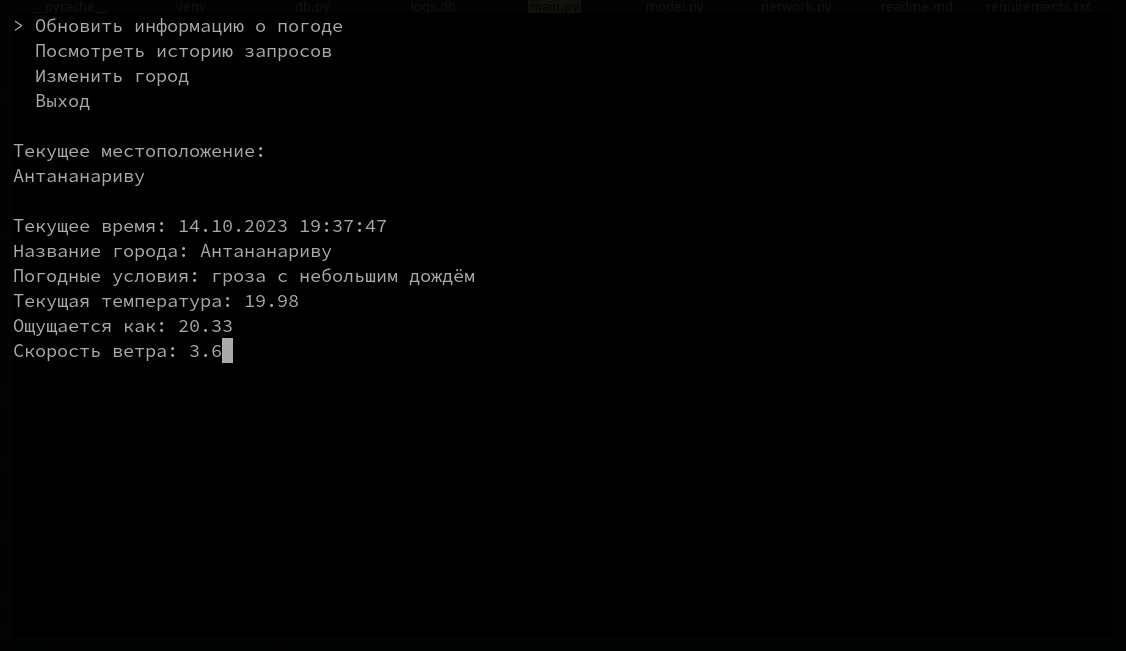
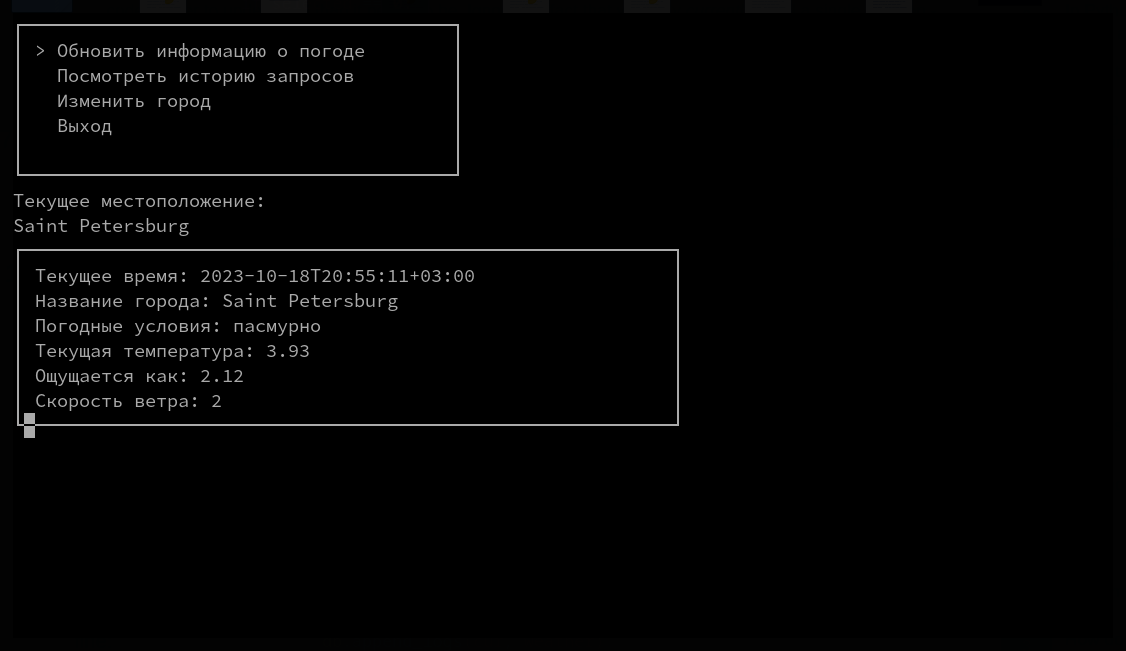
Исправления по замечаниям

Changed region(s): [[0.0, 0.0307, 0.4352, 0.6759]]

diff --git a/main.py b/main.py
@@ -1,14 +1,18 @@
 import curses
+from curses.textpad import rectangle
 import geocoder
 from os import getenv
 from dotenv import load_dotenv
 
 import network
 from model import Weather
-from db import read_logs, close_db_connection
+import db
 
 menu = ["Обновить информацию о погоде",
-        "Посмотреть историю запросов", "Изменить город", "Выход"]
+        "Посмотреть историю запросов",
+        "Изменить город",
+        "Выход"
+        ]
 
 
 def get_my_city():
@@ -19,46 +23,69 @@ def get_my_city():
 def draw_weather(stdscr, weather: Weather, start_line: int):
     if weather is not None:
         try:
-            stdscr.addstr(start_line, 0, "Текущее время: " +
-                          weather.time.strftime("%d.%m.%Y %H:%M:%S"))
-            stdscr.addstr(start_line + 1, 0,
+            stdscr.addstr(start_line + 1, 2, "Текущее время: " +
+                          weather.time.isoformat())
+            stdscr.addstr(start_line + 2, 2,
                           "Название города: " + weather.city)
-            stdscr.addstr(start_line + 2, 0, "Погодные условия: " +
+            stdscr.addstr(start_line + 3, 2, "Погодные условия: " +
                           weather.description)
-            stdscr.addstr(start_line + 3, 0,
+            stdscr.addstr(start_line + 4, 2,
                           "Текущая температура: " + str(weather.temperature))
-            stdscr.addstr(start_line + 4, 0, "Ощущается как: " +
+            stdscr.addstr(start_line + 5, 2, "Ощущается как: " +
                           str(weather.feels_like))
-            stdscr.addstr(start_line + 5, 0,
+            stdscr.addstr(start_line + 6, 2,
                           "Скорость ветра: " + str(weather.wind))
+            rectangle(stdscr, start_line, 0, start_line + 7, 60)
         except curses.error:
             pass
 
 
 def draw_city(stdscr, city):
     try:
-        stdscr.addstr(5, 0, "Текущее местоположение: ")
-        stdscr.addstr(6, 0, city)
+        stdscr.addstr(7, 0, "Текущее местоположение: ")
+        stdscr.addstr(8, 0, city)
     except curses.error:
         pass
 
 
 def draw_status_bar(stdscr, position: int, size: int):
     try:
-        stdscr.addstr(7, 0, str(position) + "/" + str(size))
+        stdscr.addstr(9, 0, str(position + 1) + "/" + str(size))
     except curses.error:
         pass
 
 
-def draw_input(stdscr, line):
+def draw_input(stdscr, line, query):
+    try:
+        stdscr.addstr(line, 0, query)
+    except curses.error:
+        pass
     curses.echo()
-    return str(stdscr.getstr(line, 0, 80), 'UTF-8')
+    return str(stdscr.getstr(line, len(query), 80), 'UTF-8')
 
 
-drawers = {
-    0: draw_weather,
-    1: draw_weather,
-}
+def draw_error(stdscr, error: str):
+    try:
+        rectangle(stdscr, 2, 2, 6 , 40)
+        stdscr.addstr(4, 9, error)
+    except curses.error:
+        pass
+
+
+def draw_menu(stdscr, selected):
+    line_num = 1
+    try:
+        for line in menu:
+                curses.setsyx(line_num, 0)
+                stdscr.clrtoeol()
+                if line == menu[selected]:
+                    stdscr.addstr(line_num, 2, "> " + line)
+                else:
+                    stdscr.addstr(line_num, 2, "  " + line)
+                line_num += 1
+        rectangle(stdscr, 0, 0, 6, 40)
+    except curses.error:
+        pass
 
 
 def fetch_weather_data(city) -> Weather:
@@ -69,77 +96,101 @@ def fetch_weather_data(city) -> Weather:
         return None
 
 
-def load_logs():
-    pass
-
-
-def draw_menu(stdscr, selected):
-    line_num = 0
-    for line in menu:
-        try:
-            curses.setsyx(line_num, 0)
-            stdscr.clrtoeol()
-            if line == menu[selected]:
-                stdscr.addstr(line_num, 0, "> " + line)
-            else:
-                stdscr.addstr(line_num, 0, "  " + line)
-            line_num += 1
-        except curses.error:
-            pass
-
 
 def main(stdscr):
     stdscr.clear()
     stdscr.keypad(True)
+
     selected = 0
     activated = None
-
     selected_log = 0
 
     city = get_my_city()
     weather = None
-    logs = [None] * 10
+    logs = []
+    logs_to_read = None
+    error = None
 
-    while True:
-        stdscr.clear()
-        drawer_params = {0: (weather, 8), 1: (logs[selected_log], 9)}
+    def draw():
+        if error is not None:
+            draw_error(stdscr, error)
+            return
+        
         draw_menu(stdscr, selected)
         draw_city(stdscr, city)
-        if activated in drawers:
-            drawers[activated](stdscr, *drawer_params[activated])
-        if (activated == 1):
-            draw_status_bar(stdscr, selected_log + 1, len(logs))
 
-        key = stdscr.getch()
-        if key == curses.KEY_DOWN and selected < len(menu) - 1:
-            selected += 1
+        if activated == 0 and weather is not None:
+            draw_weather(stdscr, weather, 9)
+        
+        if activated == 1 and logs_to_read is not None and logs:
+            draw_status_bar(stdscr, selected_log, len(logs))
+            draw_weather(stdscr, logs[selected_log], 10)
+    
+    with db.create_connection() as connection:
+        cur = connection.cursor()
+        db.create_database(cur)
 
-        elif key == curses.KEY_UP and selected > 0:
-            selected -= 1
+        while True:
+            stdscr.clear()
+            draw()
+        
 
-        elif (key == curses.KEY_RIGHT and selected == 1 and
-              selected_log < len(logs)-1):
-            selected_log += 1
-        elif key == curses.KEY_LEFT and selected == 1 and selected_log > 0:
-            selected_log -= 1
+            key = stdscr.get_wch()
+            if error is not None:
+                error = None
+                continue
 
-        elif key == ord(" "):
-            if selected == 0:
-                weather = fetch_weather_data(city)
-            elif selected == 1:
-                logs = read_logs(limit=10)
-            elif selected == 2:
-                input_line = 7
-                if activated == 1:
-                    input_line = 8
-                city = draw_input(stdscr, input_line)
-                curses.setsyx(6, 0)
-                stdscr.clrtoeol()
-            elif selected == 3:
-                break
-            activated = selected
+            if key == curses.KEY_DOWN and selected < len(menu) - 1:
+                selected += 1
+
+            elif key == curses.KEY_UP and selected > 0:
+                selected -= 1
+
+            elif (key == curses.KEY_RIGHT and selected == 1 and
+                selected_log < len(logs)-1):
+                selected_log += 1
+            elif key == curses.KEY_LEFT and selected == 1 and selected_log > 0:
+                selected_log -= 1
+
+            elif key == "\n":
+                if selected == 0:
+                    weather = fetch_weather_data(city)
+                    activated = selected
+                    db.append_logs(cur, weather)
+                    connection.commit()
+
+                elif selected == 1:
+                    logs_to_read = None
+                    weather = None
+                    stdscr.clear()
+                    draw()
+                    try:
+                        logs_to_read = draw_input(stdscr, 9, "Введите количество записей: ")
+                        logs = db.read_logs(cur, limit=logs_to_read)
+                        selected_log = 0
+                        activated = selected
+                    except:
+                        error = "Повторите попытку"
+                    
+                        
+                elif selected == 2:
+                    logs_to_read = None
+                    weather = None
+                    stdscr.clear()
+                    draw()
+                    try:
+                        city = draw_input(stdscr, 9, "Введите город: ")
+                        weather = fetch_weather_data(city)
+                        db.append_logs(cur, weather)
+                        connection.commit()
+                        activated = 0
+                    except:
+                        error = "Повторите попытку"
+    
+                elif selected == 3:
+                    break
         stdscr.refresh()
-    close_db_connection()
+
 
 
 if __name__ == "__main__":

diff --git a/db.py b/db.py
@@ -1,14 +1,17 @@
 import sqlite3
+from contextlib import contextmanager
 from datetime import datetime
 from model import Weather
 
-connection = sqlite3.connect("logs.db")
-cur = connection.cursor()
+@contextmanager
+def create_connection():
+    connection = sqlite3.connect("logs.db")
+    yield connection
+    connection.close()
 
-datetime_format = "%d.%m.%Y %H:%M:%S"
 
 
-def create_database():
+def create_database(cur):
     query = """
     CREATE TABLE IF NOT EXISTS logs(
                 query_id INTEGER PRIMARY KEY ASC AUTOINCREMENT,
@@ -23,7 +26,7 @@ def create_database():
     cur.execute(query)
 
 
-def append_logs(weather: Weather):
+def append_logs(cur, weather: Weather):
     query = """
     INSERT INTO logs
       (time, city, temperature, feels_like, description, wind)
@@ -31,38 +34,26 @@ def append_logs(weather: Weather):
       (?, ?, ?, ?, ?, ?);
     """
     cur.execute(query, (
-        weather.time.strftime(datetime_format),
+        weather.time.isoformat(),
         weather.city,
         weather.temperature,
         weather.feels_like,
         weather.description,
         weather.wind
     ))
-    connection.commit()
 
 
-def close_db_connection():
-    connection.close()
-
-
-def read_logs(limit: int):
+def read_logs(cur, limit: int):
     query = """
     SELECT * FROM logs ORDER BY query_id DESC LIMIT ?;
     """
     cur.execute(query, (str(limit),))
     rows = cur.fetchall()
-    result = list(map(lambda row: Weather(
-        time=datetime.strptime(row[1], datetime_format),
+    return list(map(lambda row: Weather(
+        time=datetime.fromisoformat(row[1]),
         city=row[2],
         temperature=row[3],
         feels_like=row[4],
         description=row[5],
         wind=row[6]
     ), rows))
-    if len(result) < 10:
-        for i in range(10 - len(result)):
-            result.append(None)
-    return result
-
-
-create_database()

diff --git a/network.py b/network.py
@@ -1,7 +1,6 @@
 import requests
-from datetime import datetime
+import datetime
 from model import Weather
-from db import append_logs
 
 BASE_URL = "https://api.openweathermap.org/data/2.5/weather"
 
@@ -15,15 +14,16 @@ def fetch_weather(city_name: str, APIKEY: str) -> Weather:
     }
     response = requests.get(BASE_URL, params=query).json()
     if "main" in response:
+        time = datetime.datetime.fromtimestamp(response["dt"], datetime.timezone.utc)
+        timezone = datetime.timezone(datetime.timedelta(seconds=response["timezone"]))
         weather = Weather(
-            time=datetime.now(),
+            time=time.astimezone(timezone),
             city=city_name,
             temperature=response["main"]["temp"],
             feels_like=response["main"]["feels_like"],
             description=response["weather"][0]["description"],
             wind=response["wind"]["speed"]
         )
-        append_logs(weather)
         return weather
     else:
         raise Exception('Некорректный запрос')

diff --git a/readme.md b/readme.md
@@ -25,4 +25,4 @@ def get_city():
 ## Хранение истории
 Для хранения использую таблицу в базе SQLite. Для пользователя доступны последние 10 запросов
 ## Интерфейс
-Управление стрелочками (←→ для выбора из списка запросов, ↓↑ для выбора из меню). Для подтверждения нажать на пробел
+Управление стрелочками (←→ для выбора из списка запросов, ↓↑ для выбора из меню). Для подтверждения Enter
